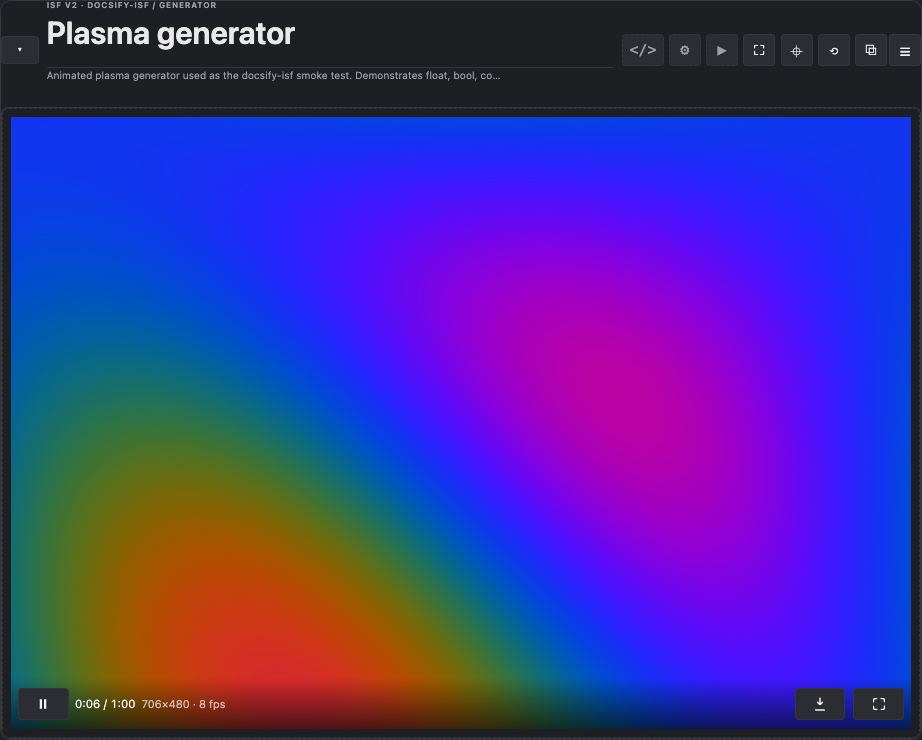
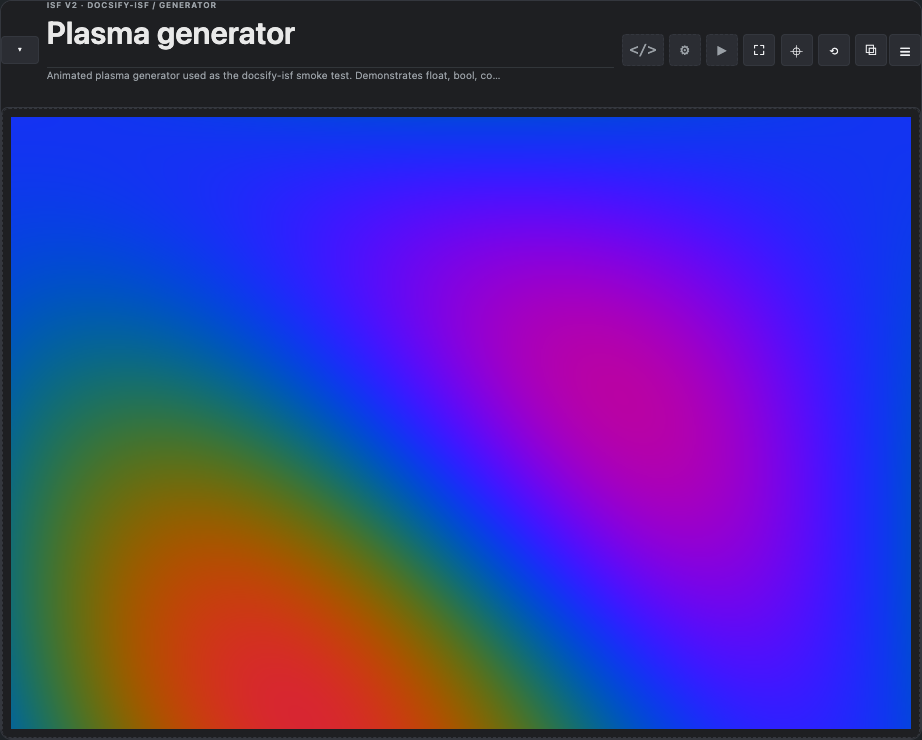
feat(tooltip): adopt PUI 1.15 touch/hover labels across chrome and HUD

Changed region(s): [[0.0, 0.9014, 1.0, 0.9946]]

diff --git a/src/plugin.src.js b/src/plugin.src.js
@@ -1,5 +1,5 @@
 /*!
- * docsify-isf v1.42.0
+ * docsify-isf v1.43.2
  * Interactive Shader Format (ISF) viewer for Docsify.
  *
  * Converts markdown links to `.fs` files into interactive WebGL viewers with
@@ -48,7 +48,7 @@
     /* @isf-core:inject — the vendored kernel bundle and adapter are generated here by tools/build.mjs */
     /* @pupitre-ui:inject — the vendored PUI renderer, ISF adapter and CSS are generated here by tools/build.mjs */
 
-    var VERSION = "1.42.0";
+    var VERSION = "1.43.2";
     var VIEWER_SEQ = 0;
     var SCRIPT_SRC = (typeof document !== "undefined" && document.currentScript && document.currentScript.src) || "";
     var PUI_BASE = "";
@@ -4556,6 +4556,7 @@
         var foldButton = h("button", "isf-btn isf-fold-btn", {
             type: "button", html: ICONS.chevron,
             title: "Collapse the editor toolbar", "aria-label": "Collapse the editor toolbar",
+            "data-pui-tooltip": "Collapse the editor toolbar",
             "aria-expanded": "true", "aria-controls": "isf-editor-toolbar-content"
         });
         var foldedSummary = h("span", "isf-editor-folded-summary", { "aria-hidden": "true" });
@@ -5891,12 +5892,12 @@
         // full transport. It auto-hides while playing unless the stage or HUD
         // has keyboard focus, and it is suppressed in the bare/OBS surface.
         var hud = h("div", "isf-stage-hud", { role: "group", "aria-label": "Preview controls" });
-        var hudPlay = h("button", "isf-hud-btn", { type: "button", title: "Pause", "aria-label": "Pause" });
+        var hudPlay = h("button", "isf-hud-btn", { type: "button", title: "Pause", "aria-label": "Pause", "data-pui-tooltip": "Pause" });
         var hudTime = h("span", "isf-hud-time", { "aria-hidden": "true" });
         var hudStats = h("span", "isf-hud-stats", { "aria-hidden": "true" });
         var hudActions = h("div", "isf-hud-actions");
-        var hudCapture = h("button", "isf-hud-btn", { type: "button", title: "Export current frame as PNG", "aria-label": "Export current frame as PNG" });
-        var hudFull = h("button", "isf-hud-btn", { type: "button", title: "Fullscreen", "aria-label": "Fullscreen" });
+        var hudCapture = h("button", "isf-hud-btn", { type: "button", title: "Export current frame as PNG", "aria-label": "Export current frame as PNG", "data-pui-tooltip": "Export current frame as PNG" });
+        var hudFull = h("button", "isf-hud-btn", { type: "button", title: "Fullscreen", "aria-label": "Fullscreen", "data-pui-tooltip": "Fullscreen" });
         hudPlay.innerHTML = ICONS.pause;
         hudCapture.innerHTML = ICONS.download;
         hudFull.innerHTML = ICONS.fullscreen;
@@ -5952,6 +5953,7 @@
                 hudPlay.innerHTML = playing ? ICONS.pause : ICONS.play;
                 hudPlay.title = playing ? "Pause" : "Play";
                 hudPlay.setAttribute("aria-label", playing ? "Pause" : "Play");
+                hudPlay.setAttribute("data-pui-tooltip", playing ? "Pause" : "Play");
                 var transport = viewer.transportValue ? viewer.transportValue() : { position: 0, duration: 60 };
                 hudTime.textContent = hudFormatTime(transport.position) + " / " + hudFormatTime(transport.duration);
                 if (runtime && runtime.destWidth) {
@@ -5962,6 +5964,7 @@
                 var full = isFullscreenActive();
                 hudFull.title = full ? "Exit fullscreen" : "Fullscreen";
                 hudFull.setAttribute("aria-label", hudFull.title);
+                hudFull.setAttribute("data-pui-tooltip", hudFull.title);
             },
             sync: function () {
                 var available = hudAvailable();

diff --git a/docsify-isf.js b/docsify-isf.js
@@ -1,5 +1,5 @@
 /*!
- * docsify-isf v1.42.0
+ * docsify-isf v1.43.2
  * Interactive Shader Format (ISF) viewer for Docsify.
  *
  * Converts markdown links to `.fs` files into interactive WebGL viewers with
@@ -3884,7 +3884,7 @@
     }
     /* @pupitre-ui:inject — the vendored PUI renderer, ISF adapter and CSS are generated here by tools/build.mjs */
 
-    var VERSION = "1.42.0";
+    var VERSION = "1.43.2";
     var VIEWER_SEQ = 0;
     var SCRIPT_SRC = (typeof document !== "undefined" && document.currentScript && document.currentScript.src) || "";
     var PUI_BASE = "";
@@ -6436,6 +6436,7 @@
         var foldButton = h("button", "isf-btn isf-fold-btn", {
             type: "button", html: ICONS.chevron,
             title: "Collapse the editor toolbar", "aria-label": "Collapse the editor toolbar",
+            "data-pui-tooltip": "Collapse the editor toolbar",
             "aria-expanded": "true", "aria-controls": "isf-editor-toolbar-content"
         });
         var foldedSummary = h("span", "isf-editor-folded-summary", { "aria-hidden": "true" });
@@ -7771,12 +7772,12 @@
         // full transport. It auto-hides while playing unless the stage or HUD
         // has keyboard focus, and it is suppressed in the bare/OBS surface.
         var hud = h("div", "isf-stage-hud", { role: "group", "aria-label": "Preview controls" });
-        var hudPlay = h("button", "isf-hud-btn", { type: "button", title: "Pause", "aria-label": "Pause" });
+        var hudPlay = h("button", "isf-hud-btn", { type: "button", title: "Pause", "aria-label": "Pause", "data-pui-tooltip": "Pause" });
         var hudTime = h("span", "isf-hud-time", { "aria-hidden": "true" });
         var hudStats = h("span", "isf-hud-stats", { "aria-hidden": "true" });
         var hudActions = h("div", "isf-hud-actions");
-        var hudCapture = h("button", "isf-hud-btn", { type: "button", title: "Export current frame as PNG", "aria-label": "Export current frame as PNG" });
-        var hudFull = h("button", "isf-hud-btn", { type: "button", title: "Fullscreen", "aria-label": "Fullscreen" });
+        var hudCapture = h("button", "isf-hud-btn", { type: "button", title: "Export current frame as PNG", "aria-label": "Export current frame as PNG", "data-pui-tooltip": "Export current frame as PNG" });
+        var hudFull = h("button", "isf-hud-btn", { type: "button", title: "Fullscreen", "aria-label": "Fullscreen", "data-pui-tooltip": "Fullscreen" });
         hudPlay.innerHTML = ICONS.pause;
         hudCapture.innerHTML = ICONS.download;
         hudFull.innerHTML = ICONS.fullscreen;
@@ -7832,6 +7833,7 @@
                 hudPlay.innerHTML = playing ? ICONS.pause : ICONS.play;
                 hudPlay.title = playing ? "Pause" : "Play";
                 hudPlay.setAttribute("aria-label", playing ? "Pause" : "Play");
+                hudPlay.setAttribute("data-pui-tooltip", playing ? "Pause" : "Play");
                 var transport = viewer.transportValue ? viewer.transportValue() : { position: 0, duration: 60 };
                 hudTime.textContent = hudFormatTime(transport.position) + " / " + hudFormatTime(transport.duration);
                 if (runtime && runtime.destWidth) {
@@ -7842,6 +7844,7 @@
                 var full = isFullscreenActive();
                 hudFull.title = full ? "Exit fullscreen" : "Fullscreen";
                 hudFull.setAttribute("aria-label", hudFull.title);
+                hudFull.setAttribute("data-pui-tooltip", hudFull.title);
             },
             sync: function () {
                 var available = hudAvailable();

diff --git a/docs/UI_ERGONOMICS.md b/docs/UI_ERGONOMICS.md
@@ -24,6 +24,7 @@ checked against established editor/workbench implementations.
 | Phone, Parameters | ![mobile parameters](ui-audit/mobile-parameters.png) |
 | Phone, Source | ![mobile source](ui-audit/mobile-source.png) |
 | Phone, stage HUD | ![mobile stage](ui-audit/mobile-stage.png) |
+| Phone, long-press tooltip | ![mobile tooltip](ui-audit/mobile-tooltip.png) |
 | Phone, shortcuts help | ![mobile help](ui-audit/mobile-help.png) |
 | Phone, command palette | ![mobile palette](ui-audit/mobile-palette.png) |
 
@@ -133,6 +134,11 @@ is the subject. The phone captures are 390×844 CSS px; desktop is 1280×1000.
   HUD** with play/pause, time, resolution/fps, capture and fullscreen. It stays
   for keyboard focus/pause, auto-hides during pointer playback, drops stats
   below 440 px of stage width, and is suppressed for OBS/bare viewers.
+- Icon-only chrome now has **hover/focus/long-press tooltips** (PUI 1.15.2):
+  titlebar toggles/actions, PUI menus, the host HUD and the fold control. A
+  touch long-press shows the label without firing the button; the next pointer
+  gesture clears suppression. Tooltips are hosted outside contained PUI roots
+  and copy the active theme tokens, so they position correctly in fullscreen.
 
 ### Measured result
 
@@ -199,6 +205,21 @@ The second full capture review found and fixed:
   suppressed in bare/OBS mode. The stats are hidden by a stage container query
   under 440 px so phone buttons do not truncate.
 
+## 4.4 Tooltips (1.15.2)
+
+- One delegated manager per PUI mount; flagged controls carry
+  `data-pui-tooltip`. Hover 320 ms, focus immediate, touch long-press 450 ms.
+- A long press suppresses the release click; the next non-touch pointer press
+  clears suppression so a mouse/pen click after a touch tooltip is not
+  swallowed.
+- Tooltips are hosted on the document body, or the fullscreen element while
+  fullscreen is active, and copy the active PUI surface/text/font tokens.
+  Position is viewport-clamped and above/below the trigger.
+- Escape, scroll, focus-out and a 1.6 s touch timeout dismiss; the original
+  `title` is restored.
+- Captured at phone width on the titlebar Parameters toggle; the HUD variant is
+  covered by the interaction trace.
+
 ## 4.3 Runtime cost controls
 
 - Workbench state changes are **coalesced to one PUI apply per animation frame**;
@@ -218,8 +239,6 @@ The second full capture review found and fixed:
 - **Dockable layout**: Dockview-style docking is unnecessary for the current
   two-pane model; PUI's split panes and focus mode cover it. Revisit only if
   third panes or user-arranged layouts become a requirement.
-- **Custom tooltips** for icon-only mobile controls; native `title` is
-  functional but not first-class on touch. The stage HUD is now implemented.
 - **Parameter groups** and saved parameter presets for very large materials.
 
 ---

diff --git a/README.md b/README.md
@@ -251,10 +251,11 @@ renderer, the source editor/import surface, the View controls and the ISF
 values.
 
 The workbench title bar labels the shader with an ISF **eyebrow**, its
-**title** and ISF **description**, and adds a PUI 1.14.2 **collapsible title
+**title** and ISF **description**, and adds a PUI 1.15.2 **collapsible title
 bar**. Pane toggles and direct actions are icon-only (`</>`, `⚙`, `▶`,
-fullscreen, focus, reset, share, menu) with accessible names/tooltips; active
-panes use the accent state. The description is one ellipsized line by default,
+fullscreen, focus, reset, share, menu) with accessible names. PUI 1.15.2 gives
+them hover/focus tooltips and a touch long-press label; the long press never
+activates the control. Active panes use the accent state. The description is one ellipsized line by default,
 so the identity row stays compact. Collapsing
 hides the description and compacts the title to one ellipsized line: the
 Menu, **Source**, **Parameters** and **Playback** buttons stay available, so
@@ -278,8 +279,8 @@ Only one Parameters pane is open across viewers at a time, so panels never stack
 `params:"auto"` opens Parameters for the in-view viewer only and never steals
 another open one.
 
-The renderer/adapter are vendored from the clean PUI **1.14.2** snapshot (commit
-`fbc45e9`; upstream tag `v1.14.2`). The workbench titlebar contract (`description`, collapsible
+The renderer/adapter are vendored from the clean PUI **1.15.2** snapshot (commit
+`b38f12c`; upstream tag `v1.15.2`). The workbench titlebar contract (`description`, collapsible
 heading, controls retained) is upstream in `spec/WORKBENCH.md`; no host
 positioning or title-bar CSS is required. Before PUI mounts — and when a shader
 header cannot be parsed — the host keeps a plain stage/header/status fallback
@@ -398,7 +399,7 @@ persist with the layout and can be overridden from the URL (`isf-res`,
   `point2D`/`color` components stay in range. Out-of-range typing is corrected
   on change and flagged with `aria-invalid` while editing.
 - The workbench titlebar shows the shader **title** and ISF **description**.
-  Its collapse control (PUI 1.14.2) hides the description and keeps a compact
+  Its collapse control (PUI 1.15.2) hides the description and keeps a compact
   title, the function buttons, pane toggles and Header menu. The Menu is the home for fullscreen,
   reset, randomize, export, share, help and source.
 - **Source** (left) and **Parameters** (right) are independently shown/hidden

diff --git a/SDD.md b/SDD.md
@@ -408,7 +408,7 @@ buttons. Pane toggles carry decorative host glyphs with accessible names and
 tooltips; labels stay visually hidden at every width. Collapsing hides the
 eyebrow/description and
 keeps a compact one-line title; the Menu, Source, Parameters and Playback
-buttons remain. This is PUI 1.14.2's `layout.titlebar` contract; the
+buttons remain. This is PUI 1.15.2's `layout.titlebar` contract; the
 host only supplies the title/description and the page's workbench document.
 The buttons are the show/hide controls for the Source and Parameters sections.
 
@@ -479,6 +479,14 @@ Density decisions:
 - Active pane toggles use the PUI accent border and the selected Parameters/
   View/Log tab uses an accent underline; the titlebar collapse keeps a compact
   title and removes the description only.
+- PUI 1.15.2 owns a delegated tooltip manager for flagged icon-only chrome:
+  titlebar collapse/pane/action/header-menu triggers, PUI menu triggers, the
+  host HUD and the fold control. Hover waits 320 ms, focus is immediate, and a
+  450 ms touch long-press shows the label without activating the button. The
+  next non-touch pointer press clears suppression; Escape, scroll, focus-out
+  and a 1.6 s timeout hide. The tooltip is hosted on the document (or the
+  fullscreen element) with copied PUI tokens, so it is correct in contained
+  workbenches and fullscreen.
 - Keyboard help is a workbench modal, the editor More menu is anchored inside
   the Source pane, and the command palette has a visible title/hint. On phones
   both help and palette are checked at 390 px for horizontal clipping.

diff --git a/AGENTS.md b/AGENTS.md
@@ -48,6 +48,11 @@ Start with the root [`../AGENTS.md`](../AGENTS.md), then:
   cancel the closed pane's deferred toggle focus. Auto-open never resets a
   user-selected tab and never steals from an already-open Source/Parameters
   pane.
+- **Tooltips are PUI-owned.** Flag icon-only controls with
+  `data-pui-tooltip`; PUI 1.15.2 provides hover/focus/long-press labels, touch
+  click suppression, theme-token copying and document/fullscreen hosting. Never
+  add a second tooltip manager per viewer. A long press must not activate the
+  control, and a following mouse/pen press must not stay suppressed.
 - **Stage HUD complements, never duplicates, Playback.** The HUD is available
   only while the Playback strip is closed (including Focus preview); it carries
   play/pause, time, stats, capture and fullscreen. Keep it keyboard reachable,
@@ -91,7 +96,7 @@ npm run build
   transport, fullscreen, phone overlays, OBS bare and fallback errors.
 - `tests/browser-interaction.mjs` — complete desktop/mobile workbench trace:
   every pane/tab, menu/direct action, parameter family, filter, editor
-  actions/More/Templates, transport, focus/HUD controls, fullscreen and touch
-  taps.
+  actions/More/Templates, transport, focus/HUD controls, tooltips, fullscreen
+  and touch taps.
 - Interaction screenshots are written to `tests/artifacts/interaction/` and
   uploaded by CI.
